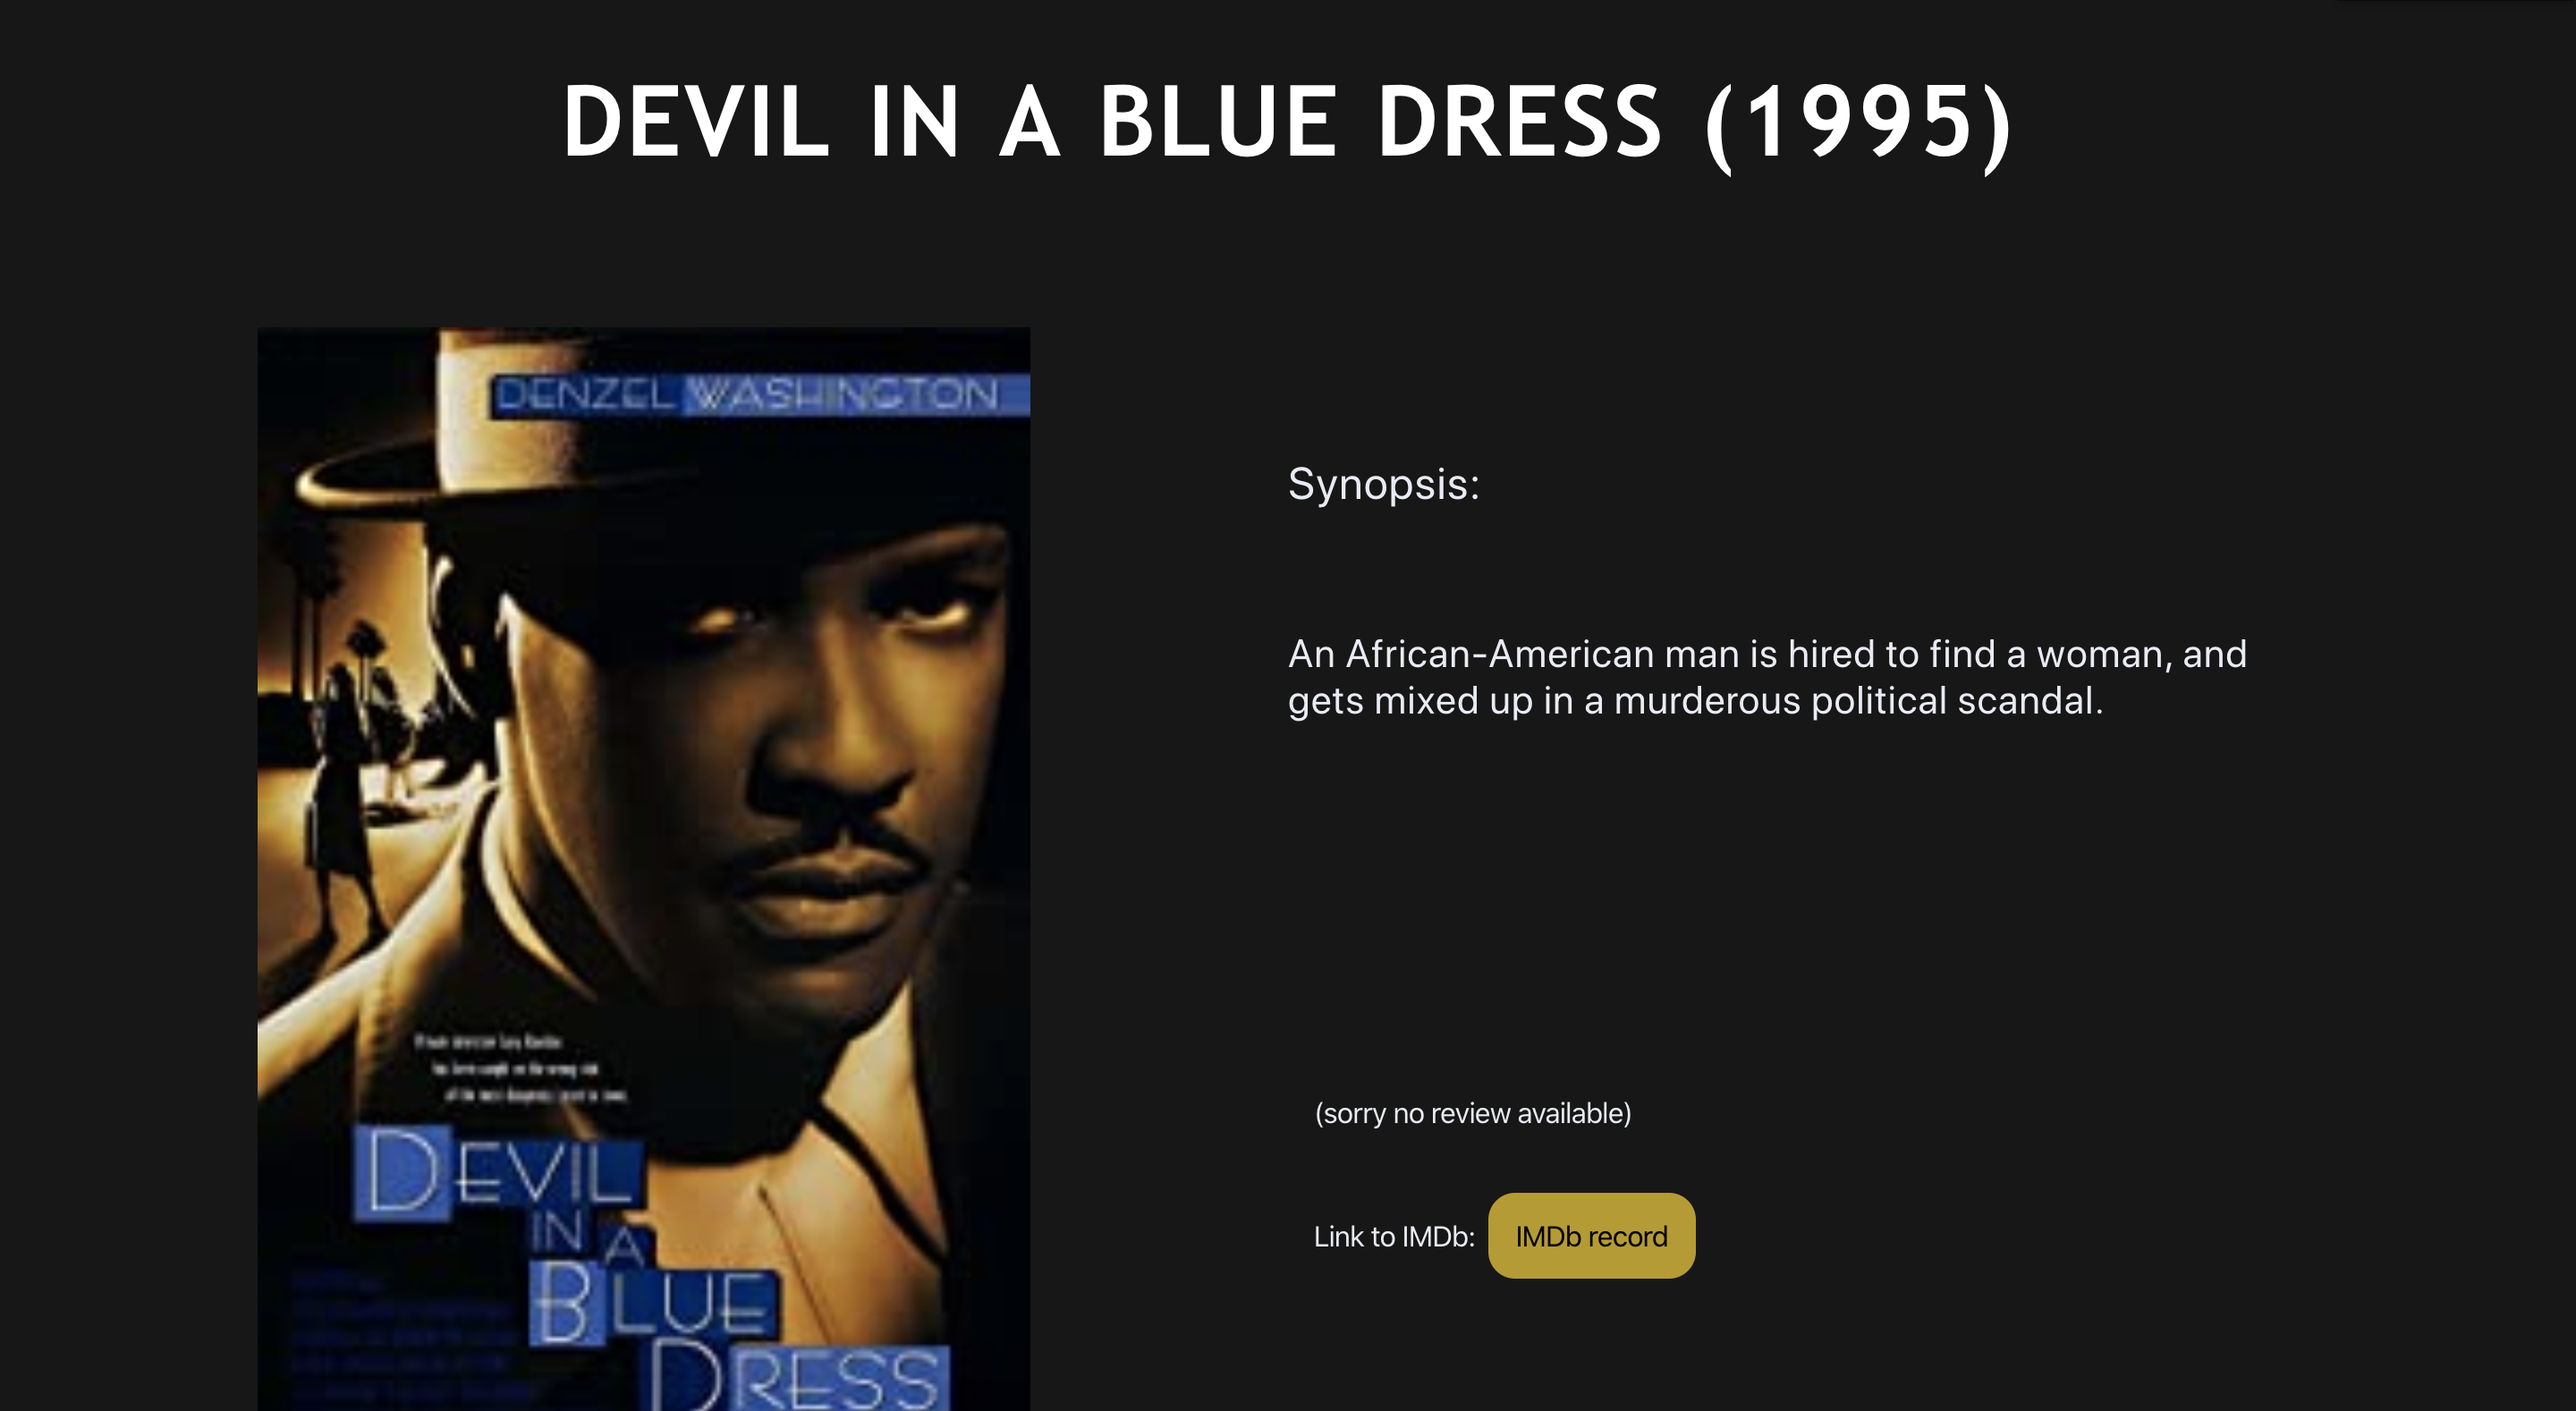
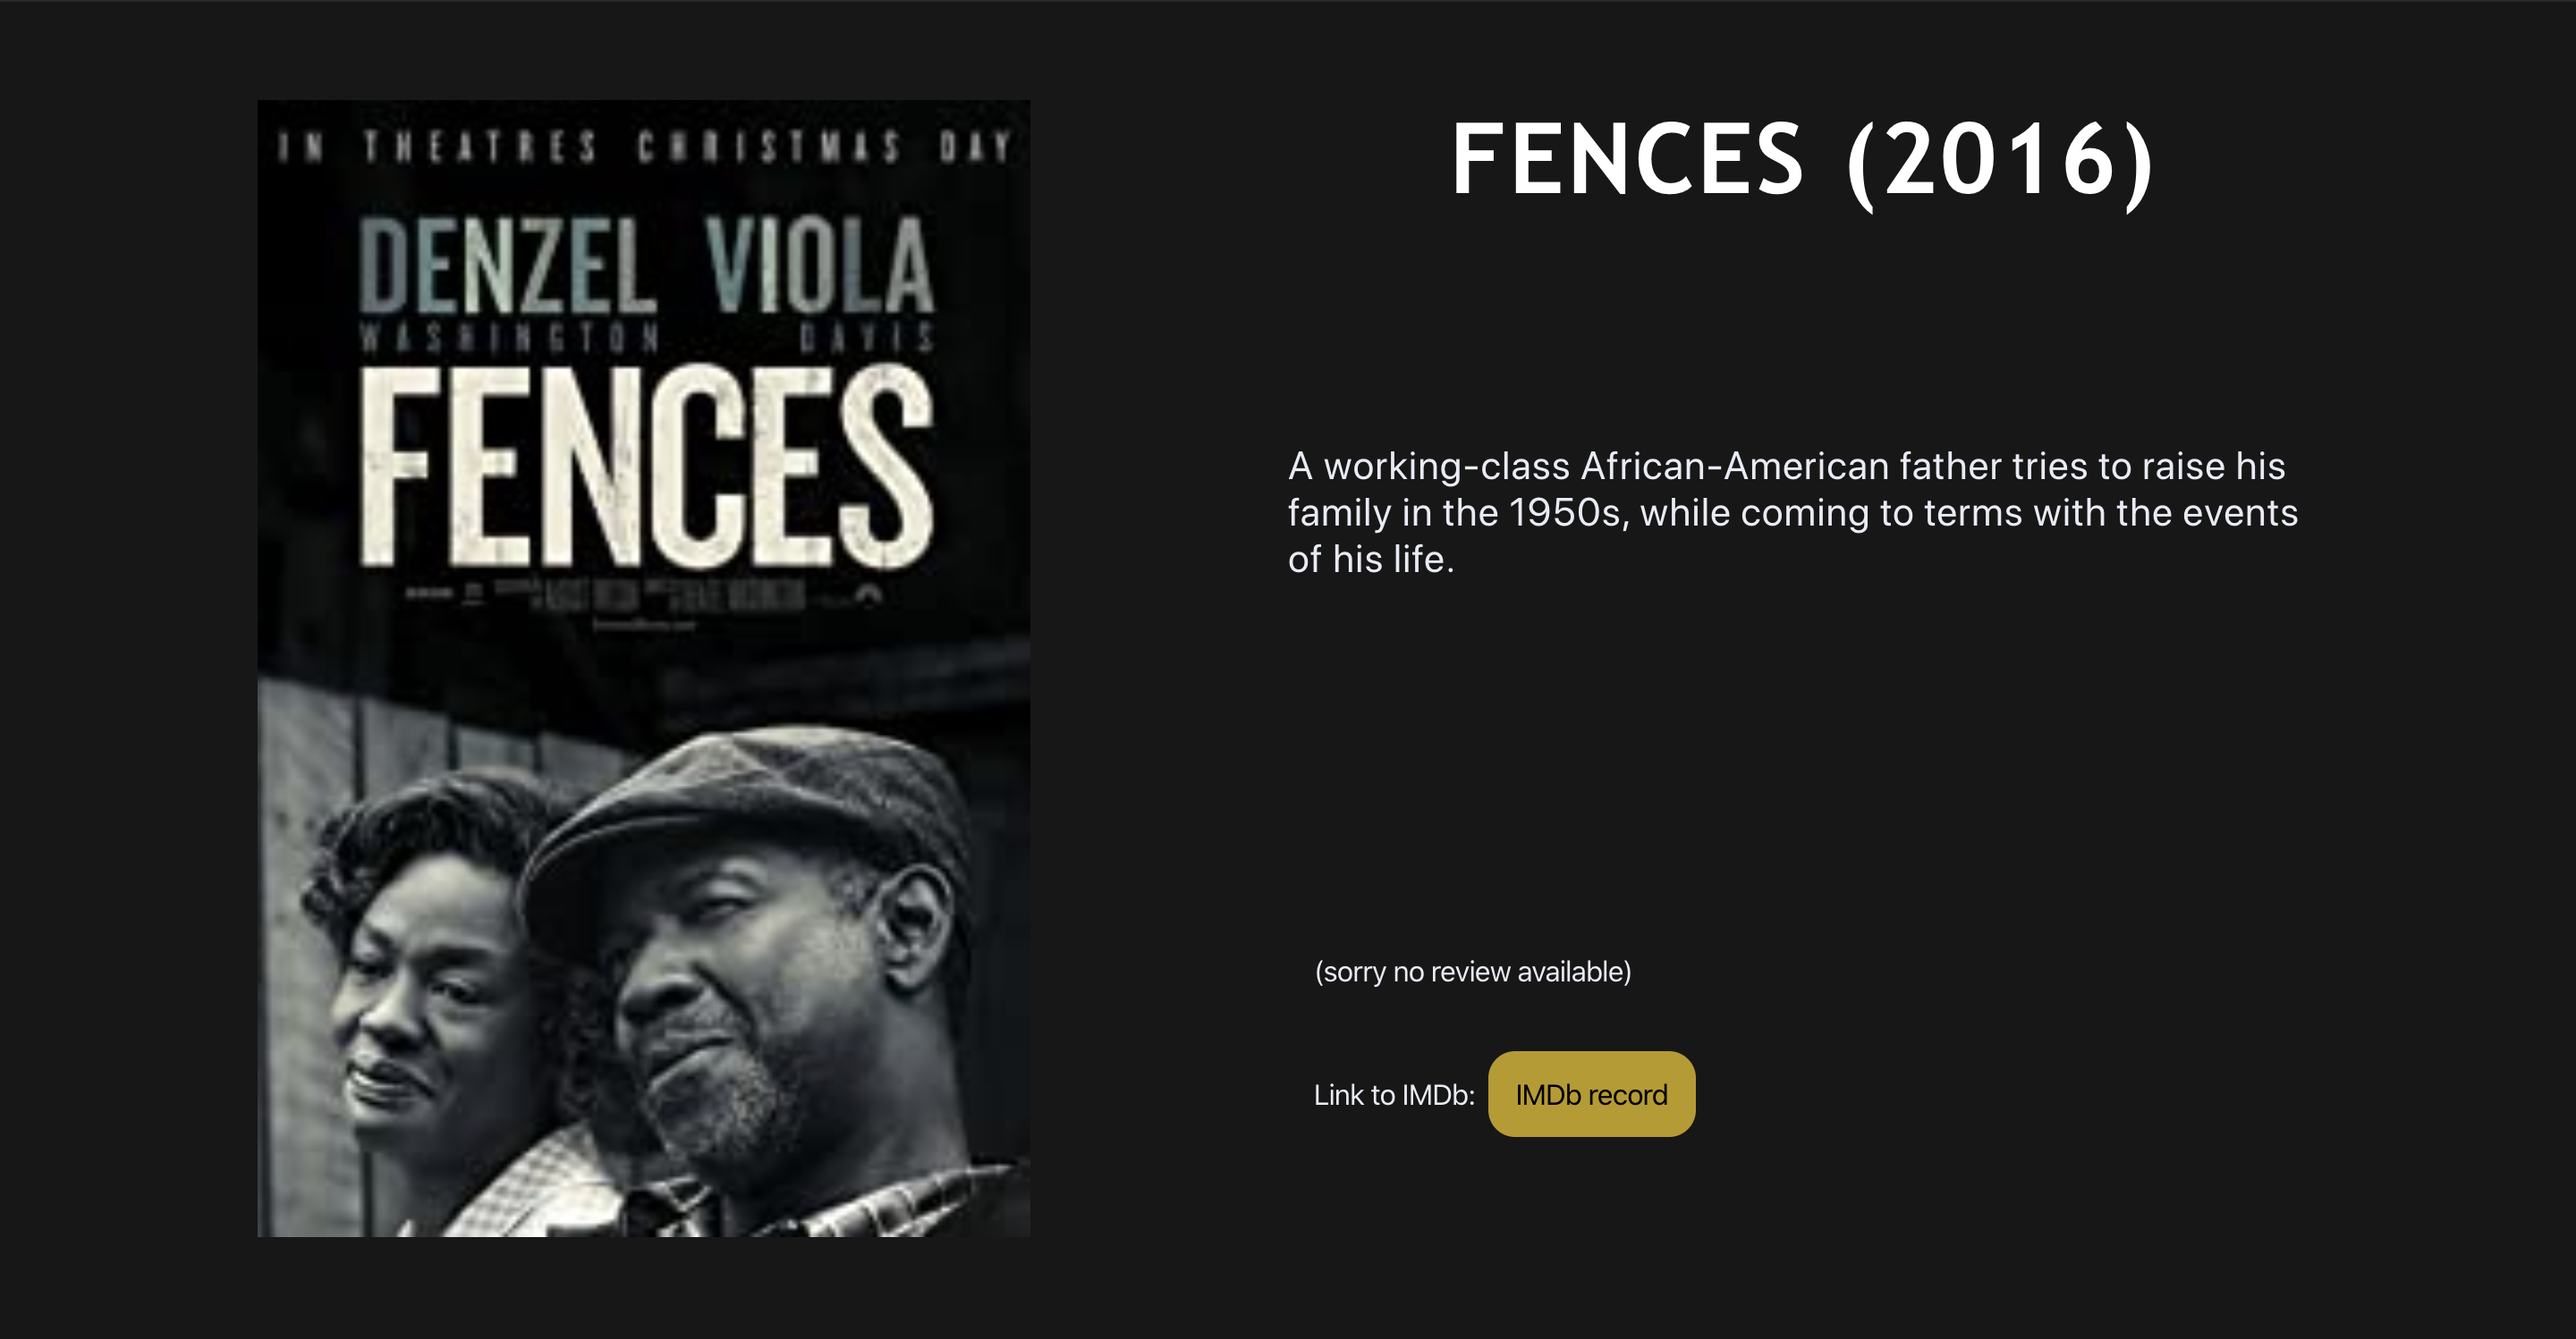
still css improvements

diff --git a/react-app/src/App.js b/react-app/src/App.js
@@ -37,11 +37,10 @@ class App extends Component{
   render() {
     return (
       <div className="App">
-        <p className="title">{this.state.json.title} </p>
         
         <img align="left" src={this.state.json.poster} className="image"></img>
 
-        <p className="synopsis-title"> Synopsis: </p>
+        <p className="title">{this.state.json.title} </p>
 
         <p className="synopsis">{this.state.json.synopsis} </p>
 

diff --git a/react-app/src/App.css b/react-app/src/App.css
@@ -14,7 +14,7 @@
   width: 30%;
   height: auto;
   padding-left: 10%;
-  padding-bottom: 5%;
+  padding-bottom: 2%;
 }
 .synopsis-title {
   text-align: left;
